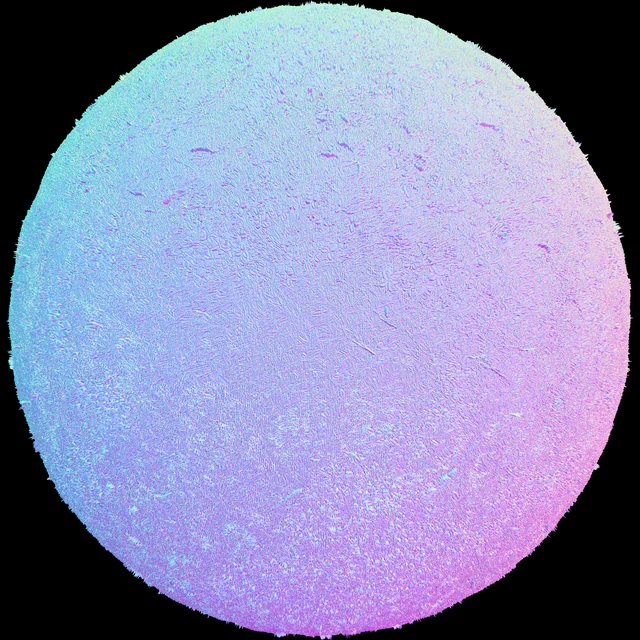
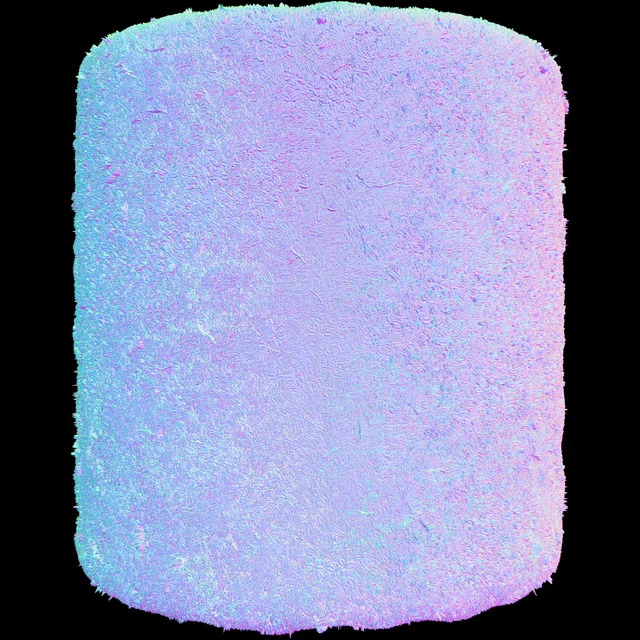
草地改用圆柱体（grass_01 FullQuality_003 抠图），三通道也用同批 _003 裁剪；材质合成图 mat8_2 同步重出，单文件与桌面副本已更新；materials 页图片版本号升到 v=3

diff --git a/materials/index.html b/materials/index.html
@@ -94,11 +94,11 @@ a{color:inherit;text-decoration:none}
 <article class="slide" id="m01">
   <div class="bg"><img src="../assets/mat/bg20.webp" alt="" loading="lazy"></div>
   <div class="stage">
-    <figure class="ball"><img src="../assets/mat/brick_big.webp" alt="红砖墙 材质渲染" loading="lazy"></figure>
+    <figure class="ball"><img src="../assets/mat/brick_big.webp?v=3" alt="红砖墙 材质渲染" loading="lazy"></figure>
     <div class="maps">
-      <figure data-full="../assets/mat/brick_a.webp?v=2"><img src="../assets/mat/brick_a.webp?v=2" alt="红砖墙 Albedo" loading="lazy"><span>ALBEDO</span></figure>
-      <figure data-full="../assets/mat/brick_n.webp?v=2"><img src="../assets/mat/brick_n.webp?v=2" alt="红砖墙 Normal" loading="lazy"><span>NORMAL</span></figure>
-      <figure data-full="../assets/mat/brick_r.webp?v=2"><img src="../assets/mat/brick_r.webp?v=2" alt="红砖墙 Roughness" loading="lazy"><span>ROUGH</span></figure>
+      <figure data-full="../assets/mat/brick_a.webp?v=3"><img src="../assets/mat/brick_a.webp?v=3" alt="红砖墙 Albedo" loading="lazy"><span>ALBEDO</span></figure>
+      <figure data-full="../assets/mat/brick_n.webp?v=3"><img src="../assets/mat/brick_n.webp?v=3" alt="红砖墙 Normal" loading="lazy"><span>NORMAL</span></figure>
+      <figure data-full="../assets/mat/brick_r.webp?v=3"><img src="../assets/mat/brick_r.webp?v=3" alt="红砖墙 Roughness" loading="lazy"><span>ROUGH</span></figure>
     </div>
   </div>
   <div class="cap">
@@ -111,11 +111,11 @@ a{color:inherit;text-decoration:none}
 <article class="slide" id="m02">
   <div class="bg"><img src="../assets/mat/bg21.webp" alt="" loading="lazy"></div>
   <div class="stage">
-    <figure class="ball"><img src="../assets/mat/redwall_big.webp" alt="红漆墙 材质渲染" loading="lazy"></figure>
+    <figure class="ball"><img src="../assets/mat/redwall_big.webp?v=3" alt="红漆墙 材质渲染" loading="lazy"></figure>
     <div class="maps">
-      <figure data-full="../assets/mat/redwall_a.webp?v=2"><img src="../assets/mat/redwall_a.webp?v=2" alt="红漆墙 Albedo" loading="lazy"><span>ALBEDO</span></figure>
-      <figure data-full="../assets/mat/redwall_n.webp?v=2"><img src="../assets/mat/redwall_n.webp?v=2" alt="红漆墙 Normal" loading="lazy"><span>NORMAL</span></figure>
-      <figure data-full="../assets/mat/redwall_r.webp?v=2"><img src="../assets/mat/redwall_r.webp?v=2" alt="红漆墙 Roughness" loading="lazy"><span>ROUGH</span></figure>
+      <figure data-full="../assets/mat/redwall_a.webp?v=3"><img src="../assets/mat/redwall_a.webp?v=3" alt="红漆墙 Albedo" loading="lazy"><span>ALBEDO</span></figure>
+      <figure data-full="../assets/mat/redwall_n.webp?v=3"><img src="../assets/mat/redwall_n.webp?v=3" alt="红漆墙 Normal" loading="lazy"><span>NORMAL</span></figure>
+      <figure data-full="../assets/mat/redwall_r.webp?v=3"><img src="../assets/mat/redwall_r.webp?v=3" alt="红漆墙 Roughness" loading="lazy"><span>ROUGH</span></figure>
     </div>
   </div>
   <div class="cap">
@@ -128,11 +128,11 @@ a{color:inherit;text-decoration:none}
 <article class="slide" id="m03">
   <div class="bg"><img src="../assets/mat/bg21.webp" alt="" loading="lazy"></div>
   <div class="stage">
-    <figure class="ball"><img src="../assets/mat/redwall2_big.webp" alt="红漆墙 02 材质渲染" loading="lazy"></figure>
+    <figure class="ball"><img src="../assets/mat/redwall2_big.webp?v=3" alt="红漆墙 02 材质渲染" loading="lazy"></figure>
     <div class="maps">
-      <figure data-full="../assets/mat/redwall2_a.webp?v=2"><img src="../assets/mat/redwall2_a.webp?v=2" alt="红漆墙 02 Albedo" loading="lazy"><span>ALBEDO</span></figure>
-      <figure data-full="../assets/mat/redwall2_n.webp?v=2"><img src="../assets/mat/redwall2_n.webp?v=2" alt="红漆墙 02 Normal" loading="lazy"><span>NORMAL</span></figure>
-      <figure data-full="../assets/mat/redwall2_r.webp?v=2"><img src="../assets/mat/redwall2_r.webp?v=2" alt="红漆墙 02 Roughness" loading="lazy"><span>ROUGH</span></figure>
+      <figure data-full="../assets/mat/redwall2_a.webp?v=3"><img src="../assets/mat/redwall2_a.webp?v=3" alt="红漆墙 02 Albedo" loading="lazy"><span>ALBEDO</span></figure>
+      <figure data-full="../assets/mat/redwall2_n.webp?v=3"><img src="../assets/mat/redwall2_n.webp?v=3" alt="红漆墙 02 Normal" loading="lazy"><span>NORMAL</span></figure>
+      <figure data-full="../assets/mat/redwall2_r.webp?v=3"><img src="../assets/mat/redwall2_r.webp?v=3" alt="红漆墙 02 Roughness" loading="lazy"><span>ROUGH</span></figure>
     </div>
   </div>
   <div class="cap">
@@ -145,11 +145,11 @@ a{color:inherit;text-decoration:none}
 <article class="slide" id="m04">
   <div class="bg"><img src="../assets/mat/bg19.webp" alt="" loading="lazy"></div>
   <div class="stage">
-    <figure class="ball"><img src="../assets/mat/soil_big.webp" alt="土壤 材质渲染" loading="lazy"></figure>
+    <figure class="ball"><img src="../assets/mat/soil_big.webp?v=3" alt="土壤 材质渲染" loading="lazy"></figure>
     <div class="maps">
-      <figure data-full="../assets/mat/soil_a.webp?v=2"><img src="../assets/mat/soil_a.webp?v=2" alt="土壤 Albedo" loading="lazy"><span>ALBEDO</span></figure>
-      <figure data-full="../assets/mat/soil_n.webp?v=2"><img src="../assets/mat/soil_n.webp?v=2" alt="土壤 Normal" loading="lazy"><span>NORMAL</span></figure>
-      <figure data-full="../assets/mat/soil_r.webp?v=2"><img src="../assets/mat/soil_r.webp?v=2" alt="土壤 Roughness" loading="lazy"><span>ROUGH</span></figure>
+      <figure data-full="../assets/mat/soil_a.webp?v=3"><img src="../assets/mat/soil_a.webp?v=3" alt="土壤 Albedo" loading="lazy"><span>ALBEDO</span></figure>
+      <figure data-full="../assets/mat/soil_n.webp?v=3"><img src="../assets/mat/soil_n.webp?v=3" alt="土壤 Normal" loading="lazy"><span>NORMAL</span></figure>
+      <figure data-full="../assets/mat/soil_r.webp?v=3"><img src="../assets/mat/soil_r.webp?v=3" alt="土壤 Roughness" loading="lazy"><span>ROUGH</span></figure>
     </div>
   </div>
   <div class="cap">
@@ -162,11 +162,11 @@ a{color:inherit;text-decoration:none}
 <article class="slide" id="m05">
   <div class="bg"><img src="../assets/mat/bg15.webp" alt="" loading="lazy"></div>
   <div class="stage">
-    <figure class="ball"><img src="../assets/mat/stonebrick_big.webp" alt="石砖墙 材质渲染" loading="lazy"></figure>
+    <figure class="ball"><img src="../assets/mat/stonebrick_big.webp?v=3" alt="石砖墙 材质渲染" loading="lazy"></figure>
     <div class="maps">
-      <figure data-full="../assets/mat/stonebrick_a.webp?v=2"><img src="../assets/mat/stonebrick_a.webp?v=2" alt="石砖墙 Albedo" loading="lazy"><span>ALBEDO</span></figure>
-      <figure data-full="../assets/mat/stonebrick_n.webp?v=2"><img src="../assets/mat/stonebrick_n.webp?v=2" alt="石砖墙 Normal" loading="lazy"><span>NORMAL</span></figure>
-      <figure data-full="../assets/mat/stonebrick_r.webp?v=2"><img src="../assets/mat/stonebrick_r.webp?v=2" alt="石砖墙 Roughness" loading="lazy"><span>ROUGH</span></figure>
+      <figure data-full="../assets/mat/stonebrick_a.webp?v=3"><img src="../assets/mat/stonebrick_a.webp?v=3" alt="石砖墙 Albedo" loading="lazy"><span>ALBEDO</span></figure>
+      <figure data-full="../assets/mat/stonebrick_n.webp?v=3"><img src="../assets/mat/stonebrick_n.webp?v=3" alt="石砖墙 Normal" loading="lazy"><span>NORMAL</span></figure>
+      <figure data-full="../assets/mat/stonebrick_r.webp?v=3"><img src="../assets/mat/stonebrick_r.webp?v=3" alt="石砖墙 Roughness" loading="lazy"><span>ROUGH</span></figure>
     </div>
   </div>
   <div class="cap">
@@ -179,11 +179,11 @@ a{color:inherit;text-decoration:none}
 <article class="slide" id="m06">
   <div class="bg"><img src="../assets/mat/bg18.webp" alt="" loading="lazy"></div>
   <div class="stage">
-    <figure class="ball"><img src="../assets/mat/stonewall_big.webp" alt="粗石墙 材质渲染" loading="lazy"></figure>
+    <figure class="ball"><img src="../assets/mat/stonewall_big.webp?v=3" alt="粗石墙 材质渲染" loading="lazy"></figure>
     <div class="maps">
-      <figure data-full="../assets/mat/stonewall_a.webp?v=2"><img src="../assets/mat/stonewall_a.webp?v=2" alt="粗石墙 Albedo" loading="lazy"><span>ALBEDO</span></figure>
-      <figure data-full="../assets/mat/stonewall_n.webp?v=2"><img src="../assets/mat/stonewall_n.webp?v=2" alt="粗石墙 Normal" loading="lazy"><span>NORMAL</span></figure>
-      <figure data-full="../assets/mat/stonewall_r.webp?v=2"><img src="../assets/mat/stonewall_r.webp?v=2" alt="粗石墙 Roughness" loading="lazy"><span>ROUGH</span></figure>
+      <figure data-full="../assets/mat/stonewall_a.webp?v=3"><img src="../assets/mat/stonewall_a.webp?v=3" alt="粗石墙 Albedo" loading="lazy"><span>ALBEDO</span></figure>
+      <figure data-full="../assets/mat/stonewall_n.webp?v=3"><img src="../assets/mat/stonewall_n.webp?v=3" alt="粗石墙 Normal" loading="lazy"><span>NORMAL</span></figure>
+      <figure data-full="../assets/mat/stonewall_r.webp?v=3"><img src="../assets/mat/stonewall_r.webp?v=3" alt="粗石墙 Roughness" loading="lazy"><span>ROUGH</span></figure>
     </div>
   </div>
   <div class="cap">
@@ -196,11 +196,11 @@ a{color:inherit;text-decoration:none}
 <article class="slide" id="m07">
   <div class="bg"><img src="../assets/mat/bg18.webp" alt="" loading="lazy"></div>
   <div class="stage">
-    <figure class="ball"><img src="../assets/mat/stonewall2_big.webp" alt="粗石墙 02 材质渲染" loading="lazy"></figure>
+    <figure class="ball"><img src="../assets/mat/stonewall2_big.webp?v=3" alt="粗石墙 02 材质渲染" loading="lazy"></figure>
     <div class="maps">
-      <figure data-full="../assets/mat/stonewall2_a.webp?v=2"><img src="../assets/mat/stonewall2_a.webp?v=2" alt="粗石墙 02 Albedo" loading="lazy"><span>ALBEDO</span></figure>
-      <figure data-full="../assets/mat/stonewall2_n.webp?v=2"><img src="../assets/mat/stonewall2_n.webp?v=2" alt="粗石墙 02 Normal" loading="lazy"><span>NORMAL</span></figure>
-      <figure data-full="../assets/mat/stonewall2_r.webp?v=2"><img src="../assets/mat/stonewall2_r.webp?v=2" alt="粗石墙 02 Roughness" loading="lazy"><span>ROUGH</span></figure>
+      <figure data-full="../assets/mat/stonewall2_a.webp?v=3"><img src="../assets/mat/stonewall2_a.webp?v=3" alt="粗石墙 02 Albedo" loading="lazy"><span>ALBEDO</span></figure>
+      <figure data-full="../assets/mat/stonewall2_n.webp?v=3"><img src="../assets/mat/stonewall2_n.webp?v=3" alt="粗石墙 02 Normal" loading="lazy"><span>NORMAL</span></figure>
+      <figure data-full="../assets/mat/stonewall2_r.webp?v=3"><img src="../assets/mat/stonewall2_r.webp?v=3" alt="粗石墙 02 Roughness" loading="lazy"><span>ROUGH</span></figure>
     </div>
   </div>
   <div class="cap">
@@ -213,11 +213,11 @@ a{color:inherit;text-decoration:none}
 <article class="slide" id="m08">
   <div class="bg"><img src="../assets/mat/bg18.webp" alt="" loading="lazy"></div>
   <div class="stage">
-    <figure class="ball"><img src="../assets/mat/stonewall3_big.webp" alt="粗石墙 03 材质渲染" loading="lazy"></figure>
+    <figure class="ball"><img src="../assets/mat/stonewall3_big.webp?v=3" alt="粗石墙 03 材质渲染" loading="lazy"></figure>
     <div class="maps">
-      <figure data-full="../assets/mat/stonewall3_a.webp?v=2"><img src="../assets/mat/stonewall3_a.webp?v=2" alt="粗石墙 03 Albedo" loading="lazy"><span>ALBEDO</span></figure>
-      <figure data-full="../assets/mat/stonewall3_n.webp?v=2"><img src="../assets/mat/stonewall3_n.webp?v=2" alt="粗石墙 03 Normal" loading="lazy"><span>NORMAL</span></figure>
-      <figure data-full="../assets/mat/stonewall3_r.webp?v=2"><img src="../assets/mat/stonewall3_r.webp?v=2" alt="粗石墙 03 Roughness" loading="lazy"><span>ROUGH</span></figure>
+      <figure data-full="../assets/mat/stonewall3_a.webp?v=3"><img src="../assets/mat/stonewall3_a.webp?v=3" alt="粗石墙 03 Albedo" loading="lazy"><span>ALBEDO</span></figure>
+      <figure data-full="../assets/mat/stonewall3_n.webp?v=3"><img src="../assets/mat/stonewall3_n.webp?v=3" alt="粗石墙 03 Normal" loading="lazy"><span>NORMAL</span></figure>
+      <figure data-full="../assets/mat/stonewall3_r.webp?v=3"><img src="../assets/mat/stonewall3_r.webp?v=3" alt="粗石墙 03 Roughness" loading="lazy"><span>ROUGH</span></figure>
     </div>
   </div>
   <div class="cap">
@@ -230,11 +230,11 @@ a{color:inherit;text-decoration:none}
 <article class="slide" id="m09">
   <div class="bg"><img src="../assets/mat/bg13.webp" alt="" loading="lazy"></div>
   <div class="stage">
-    <figure class="ball"><img src="../assets/mat/whitewall_big.webp" alt="白灰墙 材质渲染" loading="lazy"></figure>
+    <figure class="ball"><img src="../assets/mat/whitewall_big.webp?v=3" alt="白灰墙 材质渲染" loading="lazy"></figure>
     <div class="maps">
-      <figure data-full="../assets/mat/whitewall_a.webp?v=2"><img src="../assets/mat/whitewall_a.webp?v=2" alt="白灰墙 Albedo" loading="lazy"><span>ALBEDO</span></figure>
-      <figure data-full="../assets/mat/whitewall_n.webp?v=2"><img src="../assets/mat/whitewall_n.webp?v=2" alt="白灰墙 Normal" loading="lazy"><span>NORMAL</span></figure>
-      <figure data-full="../assets/mat/whitewall_r.webp?v=2"><img src="../assets/mat/whitewall_r.webp?v=2" alt="白灰墙 Roughness" loading="lazy"><span>ROUGH</span></figure>
+      <figure data-full="../assets/mat/whitewall_a.webp?v=3"><img src="../assets/mat/whitewall_a.webp?v=3" alt="白灰墙 Albedo" loading="lazy"><span>ALBEDO</span></figure>
+      <figure data-full="../assets/mat/whitewall_n.webp?v=3"><img src="../assets/mat/whitewall_n.webp?v=3" alt="白灰墙 Normal" loading="lazy"><span>NORMAL</span></figure>
+      <figure data-full="../assets/mat/whitewall_r.webp?v=3"><img src="../assets/mat/whitewall_r.webp?v=3" alt="白灰墙 Roughness" loading="lazy"><span>ROUGH</span></figure>
     </div>
   </div>
   <div class="cap">
@@ -247,11 +247,11 @@ a{color:inherit;text-decoration:none}
 <article class="slide" id="m10">
   <div class="bg"><img src="../assets/mat/bg23.webp" alt="" loading="lazy"></div>
   <div class="stage">
-    <figure class="ball"><img src="../assets/mat/floor_big.webp" alt="石板地面 材质渲染" loading="lazy"></figure>
+    <figure class="ball"><img src="../assets/mat/floor_big.webp?v=3" alt="石板地面 材质渲染" loading="lazy"></figure>
     <div class="maps">
-      <figure data-full="../assets/mat/floor_a.webp?v=2"><img src="../assets/mat/floor_a.webp?v=2" alt="石板地面 Albedo" loading="lazy"><span>ALBEDO</span></figure>
-      <figure data-full="../assets/mat/floor_n.webp?v=2"><img src="../assets/mat/floor_n.webp?v=2" alt="石板地面 Normal" loading="lazy"><span>NORMAL</span></figure>
-      <figure data-full="../assets/mat/floor_r.webp?v=2"><img src="../assets/mat/floor_r.webp?v=2" alt="石板地面 Roughness" loading="lazy"><span>ROUGH</span></figure>
+      <figure data-full="../assets/mat/floor_a.webp?v=3"><img src="../assets/mat/floor_a.webp?v=3" alt="石板地面 Albedo" loading="lazy"><span>ALBEDO</span></figure>
+      <figure data-full="../assets/mat/floor_n.webp?v=3"><img src="../assets/mat/floor_n.webp?v=3" alt="石板地面 Normal" loading="lazy"><span>NORMAL</span></figure>
+      <figure data-full="../assets/mat/floor_r.webp?v=3"><img src="../assets/mat/floor_r.webp?v=3" alt="石板地面 Roughness" loading="lazy"><span>ROUGH</span></figure>
     </div>
   </div>
   <div class="cap">
@@ -264,11 +264,11 @@ a{color:inherit;text-decoration:none}
 <article class="slide" id="m11">
   <div class="bg"><img src="../assets/mat/bg24.webp" alt="" loading="lazy"></div>
   <div class="stage">
-    <figure class="ball"><img src="../assets/mat/grass_big.webp" alt="草地 材质渲染" loading="lazy"></figure>
+    <figure class="ball"><img src="../assets/mat/grass_big.webp?v=3" alt="草地 材质渲染" loading="lazy"></figure>
     <div class="maps">
-      <figure data-full="../assets/mat/grass_a.webp?v=2"><img src="../assets/mat/grass_a.webp?v=2" alt="草地 Albedo" loading="lazy"><span>ALBEDO</span></figure>
-      <figure data-full="../assets/mat/grass_n.webp?v=2"><img src="../assets/mat/grass_n.webp?v=2" alt="草地 Normal" loading="lazy"><span>NORMAL</span></figure>
-      <figure data-full="../assets/mat/grass_r.webp?v=2"><img src="../assets/mat/grass_r.webp?v=2" alt="草地 Roughness" loading="lazy"><span>ROUGH</span></figure>
+      <figure data-full="../assets/mat/grass_a.webp?v=3"><img src="../assets/mat/grass_a.webp?v=3" alt="草地 Albedo" loading="lazy"><span>ALBEDO</span></figure>
+      <figure data-full="../assets/mat/grass_n.webp?v=3"><img src="../assets/mat/grass_n.webp?v=3" alt="草地 Normal" loading="lazy"><span>NORMAL</span></figure>
+      <figure data-full="../assets/mat/grass_r.webp?v=3"><img src="../assets/mat/grass_r.webp?v=3" alt="草地 Roughness" loading="lazy"><span>ROUGH</span></figure>
     </div>
   </div>
   <div class="cap">
@@ -281,11 +281,11 @@ a{color:inherit;text-decoration:none}
 <article class="slide" id="m12">
   <div class="bg"><img src="../assets/mat/bg27.webp" alt="" loading="lazy"></div>
   <div class="stage">
-    <figure class="ball"><img src="../assets/mat/ground_big.webp" alt="湿泥地 材质渲染" loading="lazy"></figure>
+    <figure class="ball"><img src="../assets/mat/ground_big.webp?v=3" alt="湿泥地 材质渲染" loading="lazy"></figure>
     <div class="maps">
-      <figure data-full="../assets/mat/ground_a.webp?v=2"><img src="../assets/mat/ground_a.webp?v=2" alt="湿泥地 Albedo" loading="lazy"><span>ALBEDO</span></figure>
-      <figure data-full="../assets/mat/ground_n.webp?v=2"><img src="../assets/mat/ground_n.webp?v=2" alt="湿泥地 Normal" loading="lazy"><span>NORMAL</span></figure>
-      <figure data-full="../assets/mat/ground_r.webp?v=2"><img src="../assets/mat/ground_r.webp?v=2" alt="湿泥地 Roughness" loading="lazy"><span>ROUGH</span></figure>
+      <figure data-full="../assets/mat/ground_a.webp?v=3"><img src="../assets/mat/ground_a.webp?v=3" alt="湿泥地 Albedo" loading="lazy"><span>ALBEDO</span></figure>
+      <figure data-full="../assets/mat/ground_n.webp?v=3"><img src="../assets/mat/ground_n.webp?v=3" alt="湿泥地 Normal" loading="lazy"><span>NORMAL</span></figure>
+      <figure data-full="../assets/mat/ground_r.webp?v=3"><img src="../assets/mat/ground_r.webp?v=3" alt="湿泥地 Roughness" loading="lazy"><span>ROUGH</span></figure>
     </div>
   </div>
   <div class="cap">
@@ -298,11 +298,11 @@ a{color:inherit;text-decoration:none}
 <article class="slide" id="m13">
   <div class="bg"><img src="../assets/mat/bg35.webp" alt="" loading="lazy"></div>
   <div class="stage">
-    <figure class="ball"><img src="../assets/mat/roof1_big.webp" alt="瓦屋面 材质渲染" loading="lazy"></figure>
+    <figure class="ball"><img src="../assets/mat/roof1_big.webp?v=3" alt="瓦屋面 材质渲染" loading="lazy"></figure>
     <div class="maps">
-      <figure data-full="../assets/mat/roof1_a.webp?v=2"><img src="../assets/mat/roof1_a.webp?v=2" alt="瓦屋面 Albedo" loading="lazy"><span>ALBEDO</span></figure>
-      <figure data-full="../assets/mat/roof1_n.webp?v=2"><img src="../assets/mat/roof1_n.webp?v=2" alt="瓦屋面 Normal" loading="lazy"><span>NORMAL</span></figure>
-      <figure data-full="../assets/mat/roof1_r.webp?v=2"><img src="../assets/mat/roof1_r.webp?v=2" alt="瓦屋面 Roughness" loading="lazy"><span>ROUGH</span></figure>
+      <figure data-full="../assets/mat/roof1_a.webp?v=3"><img src="../assets/mat/roof1_a.webp?v=3" alt="瓦屋面 Albedo" loading="lazy"><span>ALBEDO</span></figure>
+      <figure data-full="../assets/mat/roof1_n.webp?v=3"><img src="../assets/mat/roof1_n.webp?v=3" alt="瓦屋面 Normal" loading="lazy"><span>NORMAL</span></figure>
+      <figure data-full="../assets/mat/roof1_r.webp?v=3"><img src="../assets/mat/roof1_r.webp?v=3" alt="瓦屋面 Roughness" loading="lazy"><span>ROUGH</span></figure>
     </div>
   </div>
   <div class="cap">
@@ -315,11 +315,11 @@ a{color:inherit;text-decoration:none}
 <article class="slide" id="m14">
   <div class="bg"><img src="../assets/mat/bg35.webp" alt="" loading="lazy"></div>
   <div class="stage">
-    <figure class="ball"><img src="../assets/mat/roof1b_big.webp" alt="瓦屋面 02 材质渲染" loading="lazy"></figure>
+    <figure class="ball"><img src="../assets/mat/roof1b_big.webp?v=3" alt="瓦屋面 02 材质渲染" loading="lazy"></figure>
     <div class="maps">
-      <figure data-full="../assets/mat/roof1b_a.webp?v=2"><img src="../assets/mat/roof1b_a.webp?v=2" alt="瓦屋面 02 Albedo" loading="lazy"><span>ALBEDO</span></figure>
-      <figure data-full="../assets/mat/roof1b_n.webp?v=2"><img src="../assets/mat/roof1b_n.webp?v=2" alt="瓦屋面 02 Normal" loading="lazy"><span>NORMAL</span></figure>
-      <figure data-full="../assets/mat/roof1b_r.webp?v=2"><img src="../assets/mat/roof1b_r.webp?v=2" alt="瓦屋面 02 Roughness" loading="lazy"><span>ROUGH</span></figure>
+      <figure data-full="../assets/mat/roof1b_a.webp?v=3"><img src="../assets/mat/roof1b_a.webp?v=3" alt="瓦屋面 02 Albedo" loading="lazy"><span>ALBEDO</span></figure>
+      <figure data-full="../assets/mat/roof1b_n.webp?v=3"><img src="../assets/mat/roof1b_n.webp?v=3" alt="瓦屋面 02 Normal" loading="lazy"><span>NORMAL</span></figure>
+      <figure data-full="../assets/mat/roof1b_r.webp?v=3"><img src="../assets/mat/roof1b_r.webp?v=3" alt="瓦屋面 02 Roughness" loading="lazy"><span>ROUGH</span></figure>
     </div>
   </div>
   <div class="cap">
@@ -332,11 +332,11 @@ a{color:inherit;text-decoration:none}
 <article class="slide" id="m15">
   <div class="bg"><img src="../assets/mat/bg30.webp" alt="" loading="lazy"></div>
   <div class="stage">
-    <figure class="ball"><img src="../assets/mat/roof2_big.webp" alt="青瓦 材质渲染" loading="lazy"></figure>
+    <figure class="ball"><img src="../assets/mat/roof2_big.webp?v=3" alt="青瓦 材质渲染" loading="lazy"></figure>
     <div class="maps">
-      <figure data-full="../assets/mat/roof2_a.webp?v=2"><img src="../assets/mat/roof2_a.webp?v=2" alt="青瓦 Albedo" loading="lazy"><span>ALBEDO</span></figure>
-      <figure data-full="../assets/mat/roof2_n.webp?v=2"><img src="../assets/mat/roof2_n.webp?v=2" alt="青瓦 Normal" loading="lazy"><span>NORMAL</span></figure>
-      <figure data-full="../assets/mat/roof2_r.webp?v=2"><img src="../assets/mat/roof2_r.webp?v=2" alt="青瓦 Roughness" loading="lazy"><span>ROUGH</span></figure>
+      <figure data-full="../assets/mat/roof2_a.webp?v=3"><img src="../assets/mat/roof2_a.webp?v=3" alt="青瓦 Albedo" loading="lazy"><span>ALBEDO</span></figure>
+      <figure data-full="../assets/mat/roof2_n.webp?v=3"><img src="../assets/mat/roof2_n.webp?v=3" alt="青瓦 Normal" loading="lazy"><span>NORMAL</span></figure>
+      <figure data-full="../assets/mat/roof2_r.webp?v=3"><img src="../assets/mat/roof2_r.webp?v=3" alt="青瓦 Roughness" loading="lazy"><span>ROUGH</span></figure>
     </div>
   </div>
   <div class="cap">
@@ -349,11 +349,11 @@ a{color:inherit;text-decoration:none}
 <article class="slide" id="m16">
   <div class="bg"><img src="../assets/mat/bg30.webp" alt="" loading="lazy"></div>
   <div class="stage">
-    <figure class="ball"><img src="../assets/mat/roof2b_big.webp" alt="青瓦 02 材质渲染" loading="lazy"></figure>
+    <figure class="ball"><img src="../assets/mat/roof2b_big.webp?v=3" alt="青瓦 02 材质渲染" loading="lazy"></figure>
     <div class="maps">
-      <figure data-full="../assets/mat/roof2b_a.webp?v=2"><img src="../assets/mat/roof2b_a.webp?v=2" alt="青瓦 02 Albedo" loading="lazy"><span>ALBEDO</span></figure>
-      <figure data-full="../assets/mat/roof2b_n.webp?v=2"><img src="../assets/mat/roof2b_n.webp?v=2" alt="青瓦 02 Normal" loading="lazy"><span>NORMAL</span></figure>
-      <figure data-full="../assets/mat/roof2b_r.webp?v=2"><img src="../assets/mat/roof2b_r.webp?v=2" alt="青瓦 02 Roughness" loading="lazy"><span>ROUGH</span></figure>
+      <figure data-full="../assets/mat/roof2b_a.webp?v=3"><img src="../assets/mat/roof2b_a.webp?v=3" alt="青瓦 02 Albedo" loading="lazy"><span>ALBEDO</span></figure>
+      <figure data-full="../assets/mat/roof2b_n.webp?v=3"><img src="../assets/mat/roof2b_n.webp?v=3" alt="青瓦 02 Normal" loading="lazy"><span>NORMAL</span></figure>
+      <figure data-full="../assets/mat/roof2b_r.webp?v=3"><img src="../assets/mat/roof2b_r.webp?v=3" alt="青瓦 02 Roughness" loading="lazy"><span>ROUGH</span></figure>
     </div>
   </div>
   <div class="cap">
@@ -366,11 +366,11 @@ a{color:inherit;text-decoration:none}
 <article class="slide" id="m17">
   <div class="bg"><img src="../assets/mat/bg28.webp" alt="" loading="lazy"></div>
   <div class="stage">
-    <figure class="ball"><img src="../assets/mat/water_big.webp" alt="水面 材质渲染" loading="lazy"></figure>
+    <figure class="ball"><img src="../assets/mat/water_big.webp?v=3" alt="水面 材质渲染" loading="lazy"></figure>
     <div class="maps">
-      <figure data-full="../assets/mat/water_a.webp?v=2"><img src="../assets/mat/water_a.webp?v=2" alt="水面 Albedo" loading="lazy"><span>ALBEDO</span></figure>
-      <figure data-full="../assets/mat/water_n.webp?v=2"><img src="../assets/mat/water_n.webp?v=2" alt="水面 Normal" loading="lazy"><span>NORMAL</span></figure>
-      <figure data-full="../assets/mat/water_r.webp?v=2"><img src="../assets/mat/water_r.webp?v=2" alt="水面 Roughness" loading="lazy"><span>ROUGH</span></figure>
+      <figure data-full="../assets/mat/water_a.webp?v=3"><img src="../assets/mat/water_a.webp?v=3" alt="水面 Albedo" loading="lazy"><span>ALBEDO</span></figure>
+      <figure data-full="../assets/mat/water_n.webp?v=3"><img src="../assets/mat/water_n.webp?v=3" alt="水面 Normal" loading="lazy"><span>NORMAL</span></figure>
+      <figure data-full="../assets/mat/water_r.webp?v=3"><img src="../assets/mat/water_r.webp?v=3" alt="水面 Roughness" loading="lazy"><span>ROUGH</span></figure>
     </div>
   </div>
   <div class="cap">
@@ -383,11 +383,11 @@ a{color:inherit;text-decoration:none}
 <article class="slide" id="m18">
   <div class="bg"><img src="../assets/mat/bg22.webp" alt="" loading="lazy"></div>
   <div class="stage">
-    <figure class="ball"><img src="../assets/mat/window_big.webp" alt="窗格 材质渲染" loading="lazy"></figure>
+    <figure class="ball"><img src="../assets/mat/window_big.webp?v=3" alt="窗格 材质渲染" loading="lazy"></figure>
     <div class="maps">
-      <figure data-full="../assets/mat/window_a.webp?v=2"><img src="../assets/mat/window_a.webp?v=2" alt="窗格 Albedo" loading="lazy"><span>ALBEDO</span></figure>
-      <figure data-full="../assets/mat/window_n.webp?v=2"><img src="../assets/mat/window_n.webp?v=2" alt="窗格 Normal" loading="lazy"><span>NORMAL</span></figure>
-      <figure data-full="../assets/mat/window_r.webp?v=2"><img src="../assets/mat/window_r.webp?v=2" alt="窗格 Roughness" loading="lazy"><span>ROUGH</span></figure>
+      <figure data-full="../assets/mat/window_a.webp?v=3"><img src="../assets/mat/window_a.webp?v=3" alt="窗格 Albedo" loading="lazy"><span>ALBEDO</span></figure>
+      <figure data-full="../assets/mat/window_n.webp?v=3"><img src="../assets/mat/window_n.webp?v=3" alt="窗格 Normal" loading="lazy"><span>NORMAL</span></figure>
+      <figure data-full="../assets/mat/window_r.webp?v=3"><img src="../assets/mat/window_r.webp?v=3" alt="窗格 Roughness" loading="lazy"><span>ROUGH</span></figure>
     </div>
   </div>
   <div class="cap">
@@ -400,11 +400,11 @@ a{color:inherit;text-decoration:none}
 <article class="slide" id="m19">
   <div class="bg"><img src="../assets/mat/bg26.webp" alt="" loading="lazy"></div>
   <div class="stage">
-    <figure class="ball"><img src="../assets/mat/wood_big.webp" alt="木纹 材质渲染" loading="lazy"></figure>
+    <figure class="ball"><img src="../assets/mat/wood_big.webp?v=3" alt="木纹 材质渲染" loading="lazy"></figure>
     <div class="maps">
-      <figure data-full="../assets/mat/wood_a.webp?v=2"><img src="../assets/mat/wood_a.webp?v=2" alt="木纹 Albedo" loading="lazy"><span>ALBEDO</span></figure>
-      <figure data-full="../assets/mat/wood_n.webp?v=2"><img src="../assets/mat/wood_n.webp?v=2" alt="木纹 Normal" loading="lazy"><span>NORMAL</span></figure>
-      <figure data-full="../assets/mat/wood_r.webp?v=2"><img src="../assets/mat/wood_r.webp?v=2" alt="木纹 Roughness" loading="lazy"><span>ROUGH</span></figure>
+      <figure data-full="../assets/mat/wood_a.webp?v=3"><img src="../assets/mat/wood_a.webp?v=3" alt="木纹 Albedo" loading="lazy"><span>ALBEDO</span></figure>
+      <figure data-full="../assets/mat/wood_n.webp?v=3"><img src="../assets/mat/wood_n.webp?v=3" alt="木纹 Normal" loading="lazy"><span>NORMAL</span></figure>
+      <figure data-full="../assets/mat/wood_r.webp?v=3"><img src="../assets/mat/wood_r.webp?v=3" alt="木纹 Roughness" loading="lazy"><span>ROUGH</span></figure>
     </div>
   </div>
   <div class="cap">
